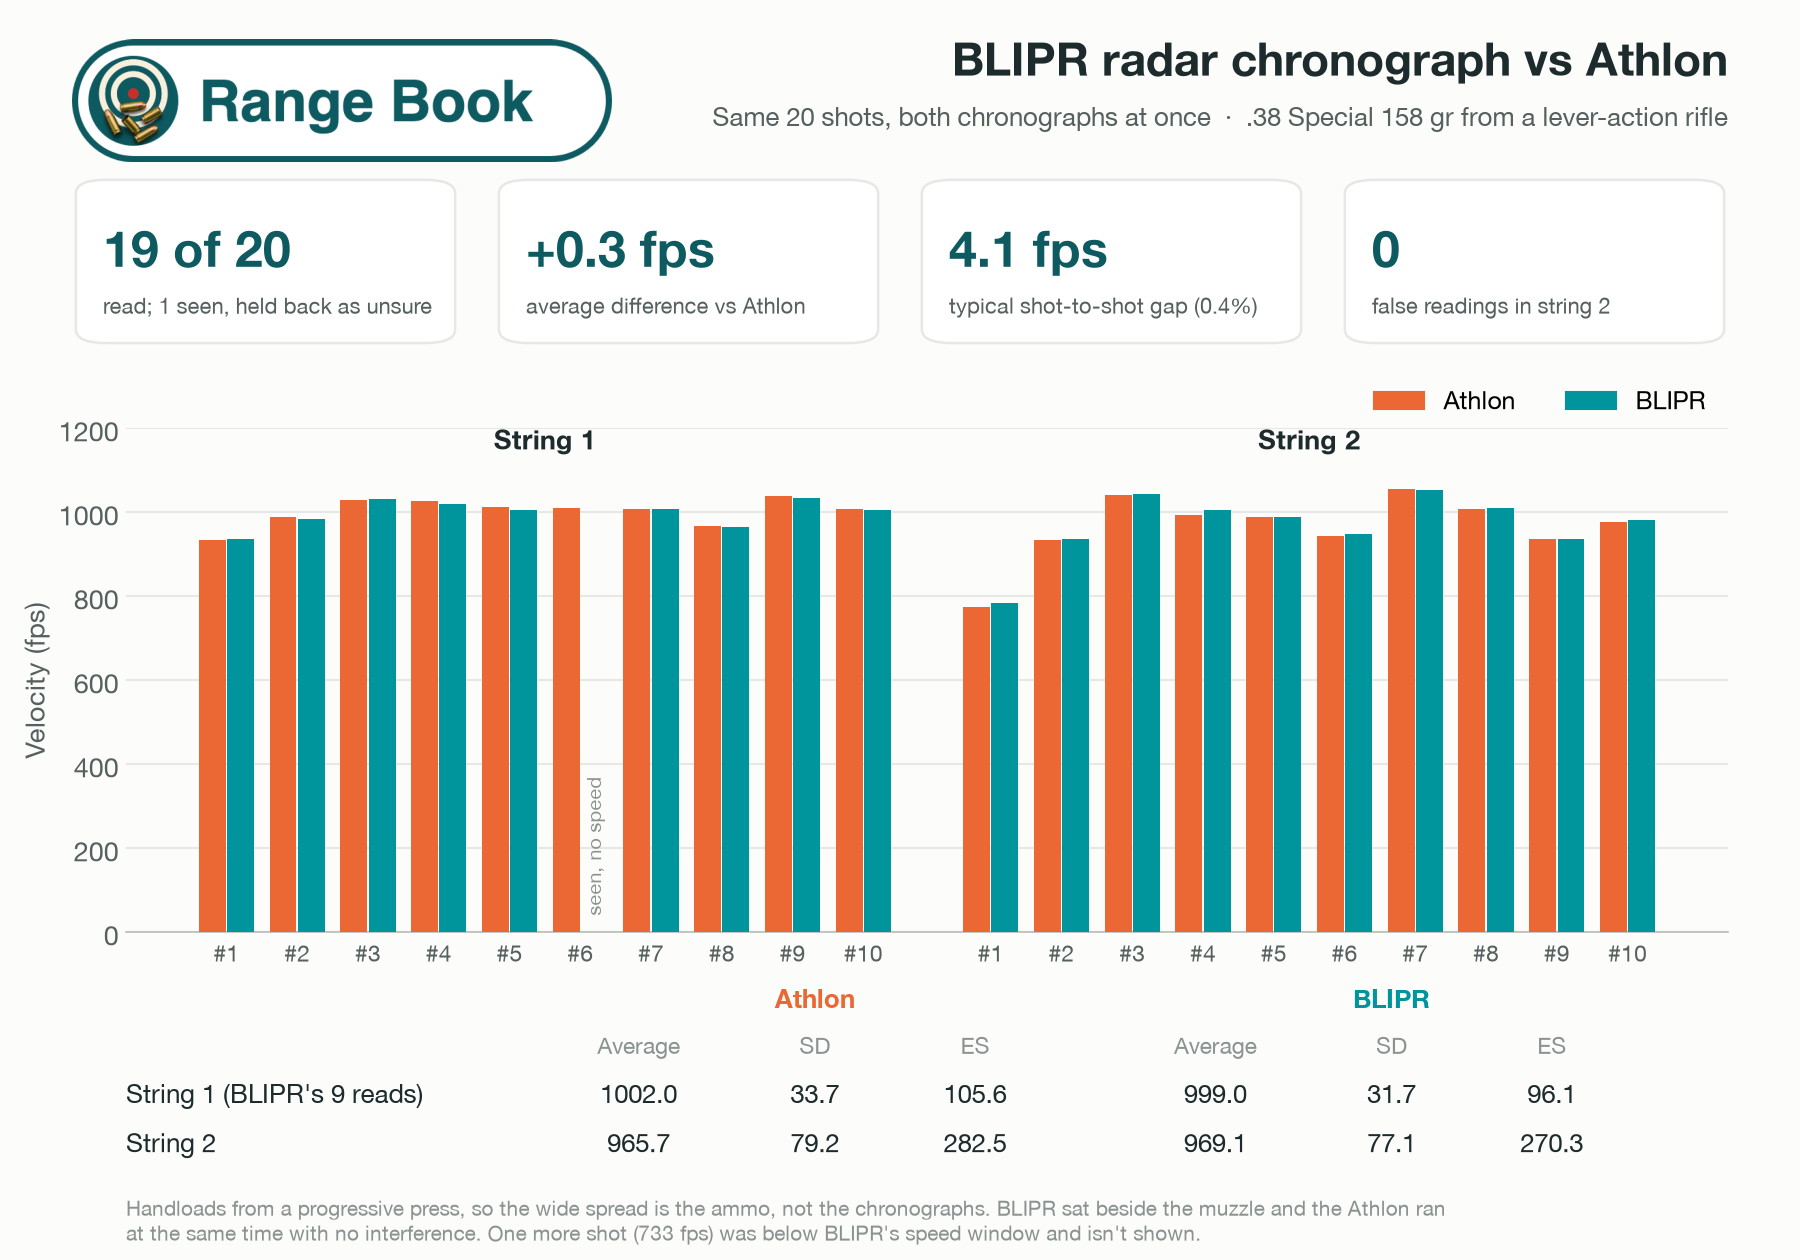
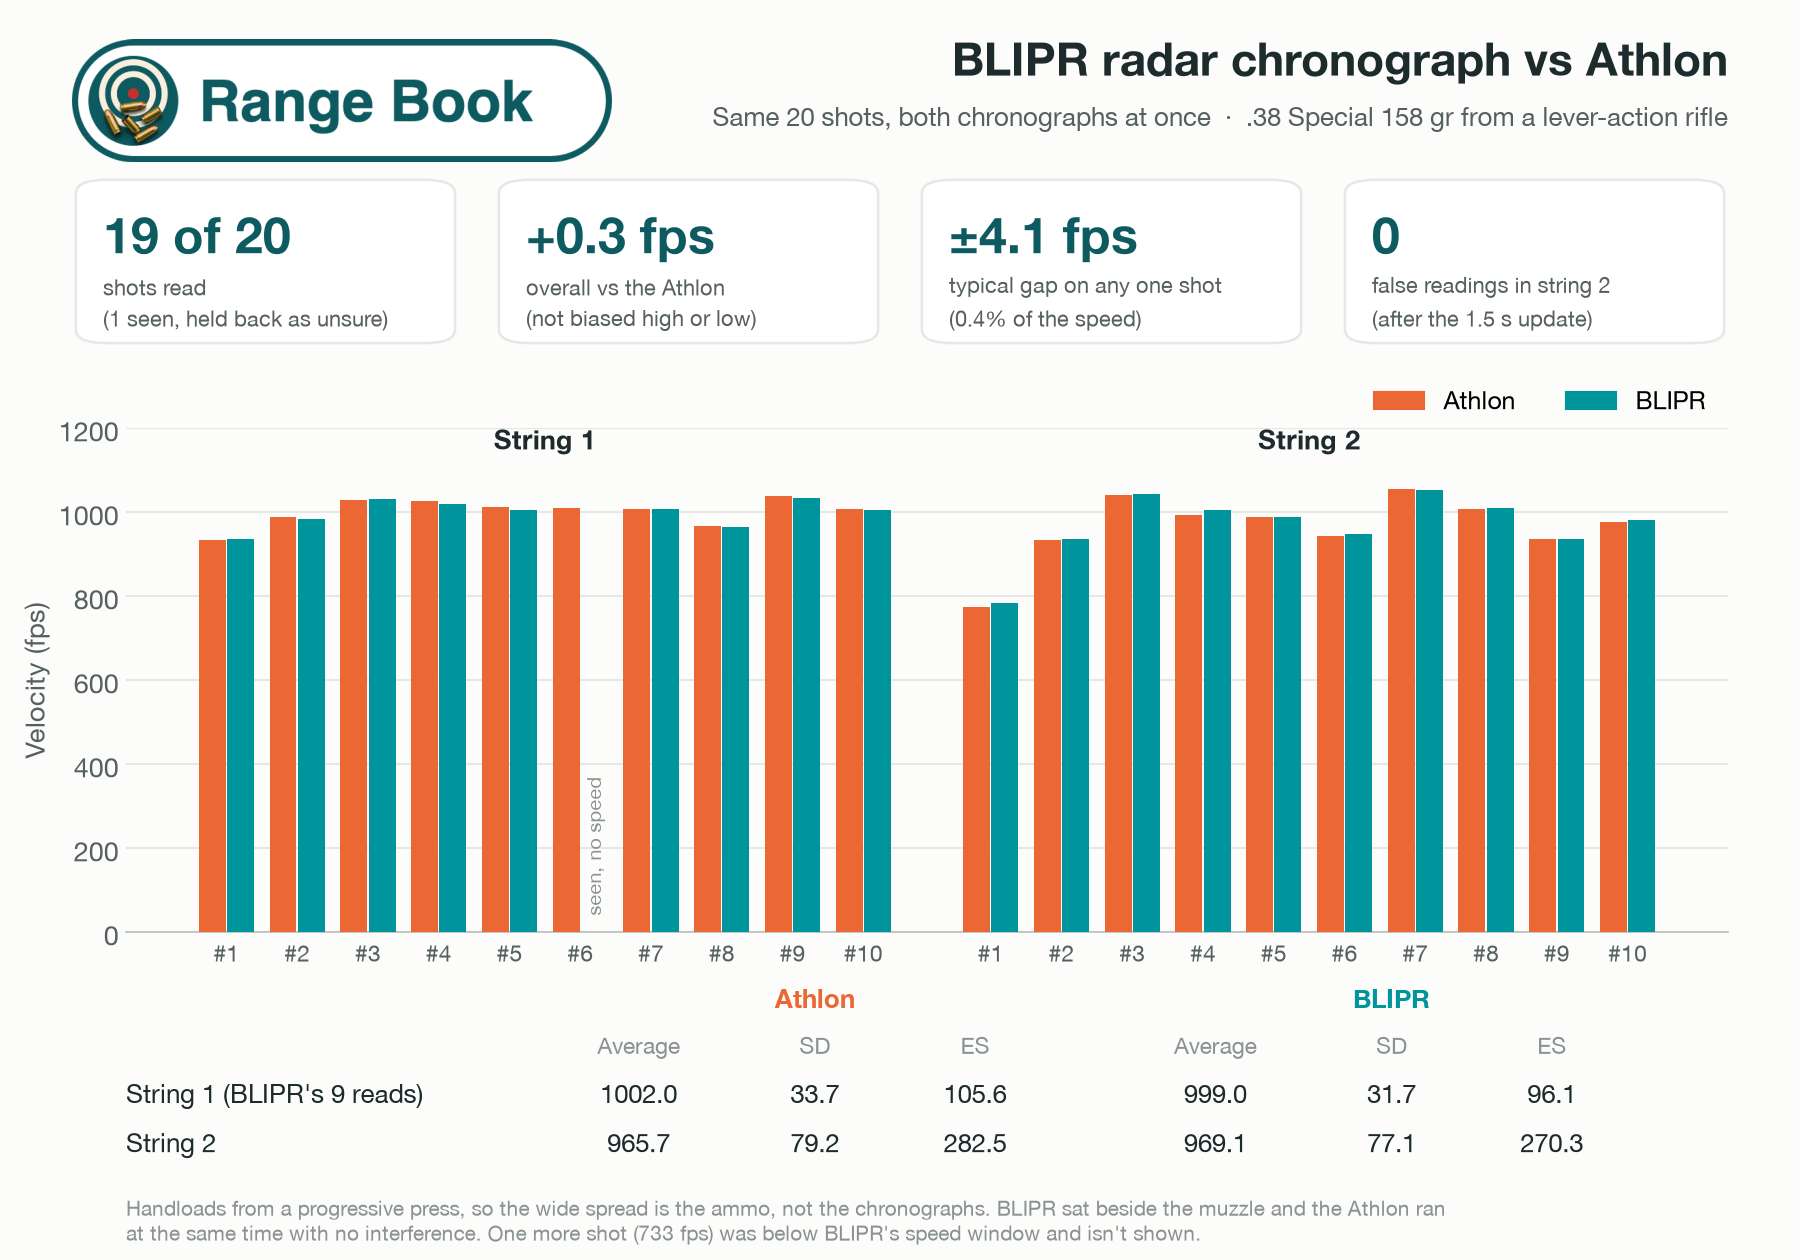
pictures: BLIPR vs Athlon tiles say what each number means (overall bias vs single-shot gap)

diff --git a/pictures/vs_athlon.py b/pictures/vs_athlon.py
@@ -22,15 +22,15 @@ bax=fig.add_axes([0.04,0.865,0.30,0.11]); bax.imshow(ban); bax.axis("off")
 fig.text(0.96,0.94,"BLIPR radar chronograph vs Athlon",ha="right",fontsize=22,weight="bold",color=INK)
 fig.text(0.96,0.900,"Same 20 shots, both chronographs at once  ·  .38 Special 158 gr from a lever-action rifle",ha="right",fontsize=12.5,color=INK2)
 # stat tiles
-tiles=[("19 of 20","read; 1 seen, held back as unsure"),
-       (f"{st.mean(d):+.1f} fps","average difference vs Athlon"),
-       (f"{st.mean([abs(x) for x in d]):.1f} fps",f"typical shot-to-shot gap ({100*st.mean([abs(x) for x in d])/st.mean(A):.1f}%)"),
-       ("0","false readings in string 2")]
+tiles=[("19 of 20","shots read\n(1 seen, held back as unsure)"),
+       (f"{st.mean(d):+.1f} fps","overall vs the Athlon\n(not biased high or low)"),
+       (f"±{st.mean([abs(x) for x in d]):.1f} fps",f"typical gap on any one shot\n({100*st.mean([abs(x) for x in d])/st.mean(A):.1f}% of the speed)"),
+       ("0","false readings in string 2\n(after the 1.5 s update)")]
 for i,(big,small) in enumerate(tiles):
     x=0.04+i*0.235; ax=fig.add_axes([x,0.725,0.215,0.135]); ax.axis("off")
     ax.add_patch(FancyBboxPatch((0.01,0.02),0.98,0.96,boxstyle="round,pad=0,rounding_size=0.08",fc="white",ec=GRID,lw=1.2,transform=ax.transAxes))
-    ax.text(0.08,0.58,big,fontsize=24,weight="bold",color=TEAL,transform=ax.transAxes,va="center")
-    ax.text(0.08,0.24,small,fontsize=10.5,color=INK2,transform=ax.transAxes,va="center")
+    ax.text(0.08,0.66,big,fontsize=24,weight="bold",color=TEAL,transform=ax.transAxes,va="center")
+    ax.text(0.08,0.25,small,fontsize=10.5,linespacing=1.3,color=INK2,transform=ax.transAxes,va="center")
 # chart
 ax=fig.add_axes([0.07,0.26,0.89,0.40]); ax.set_facecolor(SURF)
 x=np.arange(20)+np.array([0]*10+[1]*10)*0.8
